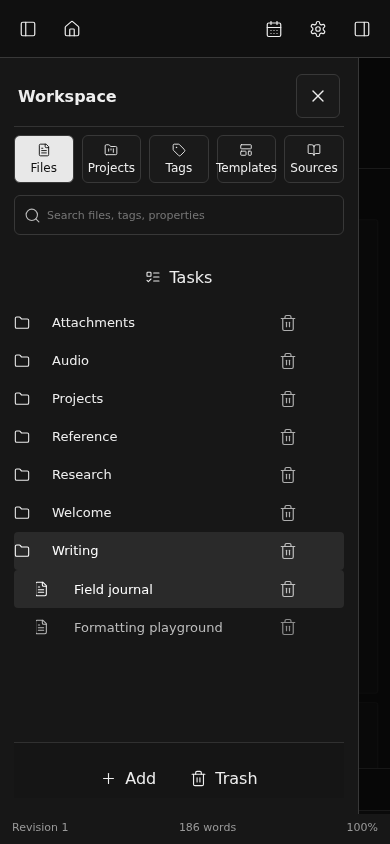
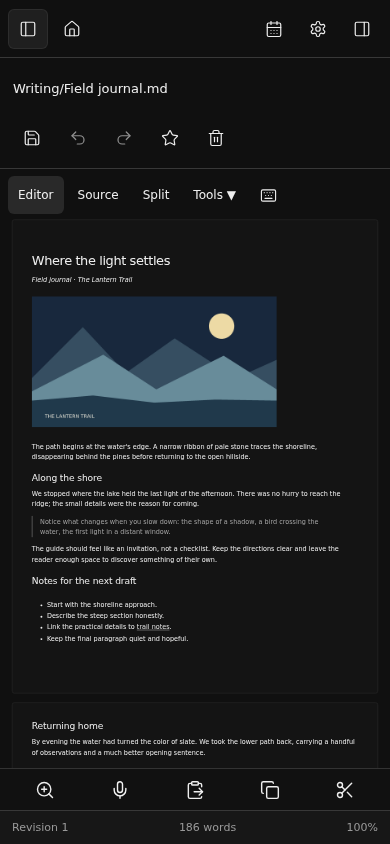
fix: share custom audio player across audio notes and previews

diff --git a/client/VoiceAuthoring.tsx b/client/VoiceAuthoring.tsx
@@ -7,6 +7,7 @@ import {attachmentUrl} from './attachment-urls';
 import {normalizeVoiceLanguage,parseVoiceKeywords,VOICE_KEYWORDS_KEY,VOICE_LANGUAGES,VOICE_LANGUAGE_KEY,voiceLanguageName,type DetectedVoiceLanguage,type VoiceLanguage} from './voice-language';
 import {ChevronDown,Clock3,Database,FileAudio,FolderOpen,Info,Languages,Layers3,Mic,Pause,ShieldCheck,Square,Tag,X} from 'lucide-react';
 import './voice-authoring.css';
+import {StandaloneAudioTrack} from './StandaloneAudioTrack';
 export type VoiceAcceptance={blob:Blob;extension:string;raw:string;markdown:string;path:string;audioPath:string;jobId:string};
 type Recovery={blob:Blob;extension:string;raw:string;markdown:string;path:string;audioPath:string;jobId:string;commands:boolean;mode:TranscriptMode};
 const recoveryDB=()=>openDB('spire-private-voice-drafts',1,{upgrade(db){db.createObjectStore('drafts');}});
@@ -53,7 +54,7 @@ export function VoiceAuthoring({kind,scope,defaultPath,attachments,onAccept,onCl
    <div className="audio-note-sources" role="tablist" aria-label="Audio source"><button role="tab" aria-selected={audioSource==='record'} onClick={()=>setAudioSource('record')}><Mic/>Record</button><button role="tab" aria-selected={audioSource==='import'} disabled={Boolean(audio)} onClick={()=>{setAudioSource('import');importInput.current?.click();}}><FileAudio/>Import File</button><button role="tab" aria-selected={audioSource==='existing'} disabled={Boolean(audio)||!attachments.length} onClick={()=>setAudioSource('existing')}><FolderOpen/>Existing Audio</button></div>
    <input ref={importInput} className="audio-note-hidden-input" aria-label="Audio file" type="file" accept="audio/*,.m4a,.webm,.flac" disabled={busy} onChange={e=>{const f=e.target.files?.[0];if(f)void choose(f,f.name).catch(report);e.target.value='';}}/>
    {audioSource==='existing'&&!audio&&<label className="audio-note-existing">Existing audio attachment<select aria-label="Existing audio attachment" defaultValue="" disabled={busy} onChange={e=>void chooseExisting(e.target.value).catch(report)}><option value="">Choose audio…</option>{attachments.map(p=><option key={p} value={p}>{p}</option>)}</select></label>}
-   {audioURL&&!recording&&<audio controls src={audioURL}/>} {audio&&!recording&&!busy&&<button className="audio-note-retry" onClick={()=>void transcribe()}>{raw?'Retry transcription':'Transcribe on self-hosted server'}</button>}
+   {audioURL&&!recording&&<StandaloneAudioTrack url={audioURL} name="Recording preview"/>} {audio&&!recording&&!busy&&<button className="audio-note-retry" onClick={()=>void transcribe()}>{raw?'Retry transcription':'Transcribe on self-hosted server'}</button>}
    {busy&&!recording&&!accepting&&<button className="audio-note-retry" onClick={()=>{generation.current++;engine.current.cancel();setBusy(false);setStatus('Cancelled. Audio retained for retry.');}}>Cancel transcription</button>}
    <div className="audio-note-settings">
     <label><Languages/><span><strong>Transcription Language</strong><small>Select language for transcription</small></span><select aria-label="Transcription language" value={language} disabled={busy||recording} onChange={e=>{const value=normalizeVoiceLanguage(e.target.value);setLanguage(value);languageRef.current=value;localStorage.setItem(VOICE_LANGUAGE_KEY,value);if(value!=='auto')setDetectedLanguage('');}}>{VOICE_LANGUAGES.map(option=><option key={option.value} value={option.value}>{option.label}</option>)}</select></label>
@@ -78,7 +79,7 @@ export function VoiceAuthoring({kind,scope,defaultPath,attachments,onAccept,onCl
   {!!attachments.length&&<label>Existing audio attachment<select aria-label="Existing audio attachment" defaultValue="" disabled={busy} onChange={e=>{const selected=e.target.value;if(selected)void(async()=>{setBusy(true);try{const response=await fetch(attachmentUrl(selected));if(!response.ok)throw new Error('Unable to read this workspace audio attachment.');await choose(await response.blob(),selected,selected);}finally{setBusy(false);}})().catch(report);}}><option value="">Choose audio…</option>{attachments.map(p=><option key={p} value={p}>{p}</option>)}</select></label>}
   <button disabled={busy} onClick={()=>void start()}>{kind==='dictate'?'Start dictation':'Record new audio'}</button></>}
   {recording&&<div className="file-dialog-actions"><button onClick={()=>void capture.current?.pause(!paused).then(()=>setPaused(!paused)).catch(report)}>{paused?'Resume':'Pause'}</button><button onClick={stop}>Stop recording</button></div>}
-  {audioURL&&!recording&&<audio controls src={audioURL}/>}
+  {audioURL&&!recording&&<StandaloneAudioTrack url={audioURL} name="Recording preview"/>}
   {audio&&!recording&&!busy&&<button onClick={()=>void transcribe()}>{raw?'Retry transcription':'Transcribe on this device'}</button>}
   {busy&&!recording&&!accepting&&<button onClick={()=>{generation.current++;engine.current.cancel();if(capture.current)stop();setBusy(false);setStatus('Cancelled. Audio retained for retry.');}}>Cancel transcription</button>}
   {kind==='dictate'?<><label className="voice-check"><input type="checkbox" aria-label="Spoken formatting commands" checked={commands} disabled={busy||recording} onChange={e=>{setCommands(e.target.checked);values.current.commands=e.target.checked;setMarkdown(dictatedMarkdown(raw,e.target.checked).markdown);}}/>Spoken formatting commands</label><p>Off by default. When enabled, prefix each command with “Spire”; for example “Spire heading one” or “Spire new paragraph”. Commands affect only this new dictation, never your existing writing.</p><details><summary>Supported commands</summary><p>{voiceCommands.map(c=>'Spire '+c).join(' · ')}</p></details>{commands&&raw&&<p>Recognized commands: {dictatedMarkdown(raw,true).commands.join(', ')||'none'}</p>}</>:<><label>Transcript mode<select aria-label="Transcript mode" value={mode} disabled={busy||recording} onChange={e=>{const value=e.target.value as TranscriptMode;setMode(value);values.current.mode=value;setMarkdown(transcriptFile(path.split('/').pop()?.replace(/\.md$/i,'')??'Transcript',raw,value));}}><option value="verbatim">Verbatim</option><option value="clean">Clean — light filler cleanup</option><option value="structured">Structured — paragraph organization</option></select></label><p>Structured mode organizes a reading copy; it does not invent a summary, speakers, or tasks.</p><label>Transcript file path<input aria-label="Transcript file path" value={path} disabled={busy||recording} onChange={e=>setPath(e.target.value)}/></label></>}

diff --git a/tests/browser/audio-player-parity.spec.ts b/tests/browser/audio-player-parity.spec.ts
@@ -1,0 +1,25 @@
+import {test,expect} from './fixtures';
+import {readFileSync} from 'node:fs';
+import {randomUUID} from 'node:crypto';
+import {audioNoteContent} from '../../shared/audio-notes';
+for(const width of [390,1500])test(`Audio Notes share the custom player and retain transcript flows at ${width}`,async({page})=>{
+ await page.setViewportSize({width,height:950});await page.goto('/');
+ await page.getByLabel('Username',{exact:true}).fill('audio-parity');await page.getByLabel('Password',{exact:true}).fill('audio-parity-test-password');await page.getByRole('button',{name:'Create Reliquary',exact:true}).click();await expect(page.getByRole('button',{name:'Settings',exact:true})).toBeVisible();
+ const me=await(await page.request.get('/api/me')).json(),headers={Origin:'http://127.0.0.1:4179','X-CSRF-Token':me.csrf};
+ for(const path of ['Attachments','Audio Notes','Writing'])expect((await page.request.post('/api/folders',{headers,data:{path}})).ok()).toBeTruthy();
+ const asset='Attachments/lantern-chime.mp3';expect((await page.request.post('/api/attachments?path='+encodeURIComponent(asset),{headers:{...headers,'Content-Type':'application/octet-stream'},data:readFileSync('examples/showcase/vault/'+asset)})).ok()).toBeTruthy();
+ const id=randomUUID(),path='Audio Notes/Player consistency.md';expect((await page.request.post('/api/mutate',{headers,data:{op:randomUUID(),id,base:0,path,content:audioNoteContent(path,asset,'Original words'),deleted:false}})).ok()).toBeTruthy();
+ const open=async()=>{await page.reload();await expect(page.getByRole('button',{name:'Settings',exact:true})).toBeVisible();const recent=page.getByRole('button',{name:'Player consistency Audio Notes',exact:true});if(await recent.isVisible()){await recent.click();return;}if(width>=980)await expect(page.locator('.sidebar')).toBeVisible();else if(!await page.locator('.sidebar').isVisible())await page.getByRole('button',{name:'Toggle folders',exact:true}).click();const folder=page.getByRole('navigation',{name:'Files',exact:true}).getByText('Audio Notes',{exact:true});if(!await page.getByRole('button',{name:'Player consistency',exact:true}).isVisible())await folder.click();await page.getByRole('button',{name:'Player consistency',exact:true}).click();};
+ await open();const region=page.getByRole('region',{name:'Audio Note'});await expect(region).toBeVisible();
+ const player=region.getByRole('group',{name:'Audio player for lantern-chime.mp3'});await expect(player).toBeVisible();await expect(region.locator('audio[controls]')).toHaveCount(0);
+ await expect.poll(()=>player.locator('audio').evaluate((a:HTMLAudioElement)=>a.duration)).toBeGreaterThan(2);
+ await player.getByRole('button',{name:'Play lantern-chime.mp3',exact:true}).click();await expect(player.getByRole('button',{name:'Pause lantern-chime.mp3',exact:true})).toBeVisible();await player.getByRole('button',{name:'Pause lantern-chime.mp3',exact:true}).click();
+ await player.getByRole('slider',{name:'Seek lantern-chime.mp3'}).fill('1');await expect.poll(()=>player.locator('audio').evaluate((a:HTMLAudioElement)=>a.currentTime)).toBeGreaterThanOrEqual(0.9);
+ await player.getByRole('button',{name:'Mute lantern-chime.mp3',exact:true}).click();await expect(player.getByRole('button',{name:'Unmute lantern-chime.mp3',exact:true})).toBeVisible();
+ const bounds=await player.boundingBox();expect(bounds!.x).toBeGreaterThanOrEqual(0);expect(bounds!.x+bounds!.width).toBeLessThanOrEqual(width+1);
+ await player.getByRole('button',{name:'More options for lantern-chime.mp3'}).click();await page.getByRole('menuitem',{name:'Show speaker button'}).click();
+ await expect.poll(async()=>{const r=await page.request.get('/api/workspace/files/'+id+'/content');return (await r.json()).content;}).toContain('data-spire-display="simple"');
+ await open();await expect(region.locator('.media-audio-row-speaker')).toBeVisible();
+ await region.getByRole('button',{name:'Edit transcript'}).click();await page.getByLabel('Edit transcript').fill('Edited words');await region.getByRole('button',{name:'Save transcript'}).click();await expect(region.getByText('Edited words',{exact:true})).toBeVisible();
+ page.once('dialog',dialog=>dialog.accept('Writing/Player transcript.md'));await region.getByRole('button',{name:'Convert to normal file'}).click();await expect(page.getByRole('textbox',{name:'Document editor',exact:true})).toContainText('Edited words');await expect(page.locator('.editor-audio-player .media-audio-row')).toBeVisible();
+});

diff --git a/client/AudioNoteView.tsx b/client/AudioNoteView.tsx
@@ -1,9 +1,13 @@
 import React,{useState} from 'react';
 import {audioNoteData,audioNoteTranscript,replaceAudioNoteTranscript} from '../shared/audio-notes';
+import {StandaloneAudioTrack} from './StandaloneAudioTrack';
+import {setAudioDisplay} from './editor-audio';
 import {attachmentUrl} from './attachment-urls';
 type File={id:string;path:string;content:string;deleted?:boolean};
 export function AudioNoteView({note,linked,onSave,onConvert,onOpen}:{note:File;linked:File[];onSave:(content:string)=>Promise<void>;onConvert:()=>Promise<void>;onOpen:(file:File)=>void}){
  const [editing,E]=useState(false),[text,T]=useState(''),[busy,B]=useState(false),[error,F]=useState('');const data=audioNoteData(note.content)!;
+ const name=data.audioPath.split('/').pop()||'Audio';
+ const display=/<audio\b[^>]*\bdata-spire-display=["']simple["']/i.test(note.content)?'simple':'default';
  const run=async(fn:()=>Promise<void>)=>{B(true);F('');try{await fn();}catch(e){F(e instanceof Error?e.message:String(e));}finally{B(false);}};
- return <section className="audio-note-view" style={{padding:20,overflow:'auto',minHeight:0}} aria-label="Audio Note"><h1>{note.path.split('/').pop()?.replace(/\.md$/i,'')}</h1><audio controls preload="metadata" src={attachmentUrl(data.audioPath)} style={{width:'100%'}}/><h2>Transcript</h2>{editing?<><label htmlFor="audio-note-transcript">Edit transcript</label><textarea id="audio-note-transcript" value={text} onChange={e=>T(e.target.value)} rows={14} disabled={busy} style={{width:'100%',boxSizing:'border-box',font:'inherit',padding:12}}/><button disabled={busy} onClick={()=>void run(async()=>{await onSave(replaceAudioNoteTranscript(note.content,text));E(false);})}>Save transcript</button><button disabled={busy} onClick={()=>E(false)}>Cancel</button></>:<><p style={{whiteSpace:'pre-wrap'}}>{audioNoteTranscript(note.content)}</p><button disabled={busy||note.deleted} onClick={()=>{T(audioNoteTranscript(note.content));E(true);}}>Edit transcript</button></>}<p><button disabled={busy||editing||note.deleted} onClick={()=>void run(onConvert)}>Convert to normal file</button></p>{linked.length>0&&<nav aria-label="Linked normal files"><h3>Linked files</h3>{linked.map(file=><button key={file.id} disabled={busy||editing} onClick={()=>onOpen(file)}>{file.path}</button>)}</nav>}{error&&<p role="alert">{error}</p>}<p className="muted">The original audio is retained. Conversion creates a separate linked document.</p></section>;
+ return <section className="audio-note-view" style={{padding:20,overflow:'auto',minHeight:0}} aria-label="Audio Note"><h1>{note.path.split('/').pop()?.replace(/\.md$/i,'')}</h1><StandaloneAudioTrack key={note.id} name={name} url={attachmentUrl(data.audioPath)} initialDisplay={display} onDisplayChange={next=>{if(!busy&&!editing&&!note.deleted)void run(()=>onSave(setAudioDisplay(note.content,0,next)));}}/><h2>Transcript</h2>{editing?<><label htmlFor="audio-note-transcript">Edit transcript</label><textarea id="audio-note-transcript" value={text} onChange={e=>T(e.target.value)} rows={14} disabled={busy} style={{width:'100%',boxSizing:'border-box',font:'inherit',padding:12}}/><button disabled={busy} onClick={()=>void run(async()=>{await onSave(replaceAudioNoteTranscript(note.content,text));E(false);})}>Save transcript</button><button disabled={busy} onClick={()=>E(false)}>Cancel</button></>:<><p style={{whiteSpace:'pre-wrap'}}>{audioNoteTranscript(note.content)}</p><button disabled={busy||note.deleted} onClick={()=>{T(audioNoteTranscript(note.content));E(true);}}>Edit transcript</button></>}<p><button disabled={busy||editing||note.deleted} onClick={()=>void run(onConvert)}>Convert to normal file</button></p>{linked.length>0&&<nav aria-label="Linked normal files"><h3>Linked files</h3>{linked.map(file=><button key={file.id} disabled={busy||editing} onClick={()=>onOpen(file)}>{file.path}</button>)}</nav>}{error&&<p role="alert">{error}</p>}<p className="muted">The original audio is retained. Conversion creates a separate linked document.</p></section>;
 }

diff --git a/tests/browser/public-showcase.spec.ts b/tests/browser/public-showcase.spec.ts
@@ -21,6 +21,6 @@ test('capture public showcase on desktop and mobile',async({page})=>{
  await page.getByRole('button',{name:'Field journal',exact:true}).click();
  await expect(page.getByRole('textbox',{name:'Document editor',exact:true})).toContainText('Where the light settles');
  await expect(page.locator('.document-editor img').first()).toBeVisible();await expect.poll(()=>page.locator('.document-editor img').first().evaluate((el:HTMLImageElement)=>el.complete&&el.naturalWidth>0)).toBeTruthy();await page.evaluate(()=>document.fonts.ready);await page.screenshot({path:'documents/screenshots/desktop-editor.png'});
- await page.setViewportSize({width:390,height:844});await page.screenshot({path:'documents/screenshots/mobile-editor.png'});
+ await page.setViewportSize({width:390,height:844});if(await page.locator('.sidebar').isVisible())await page.getByRole('button',{name:'Toggle folders',exact:true}).click();await expect(page.locator('.sidebar')).not.toBeVisible();await expect(page.getByRole('textbox',{name:'Document editor',exact:true})).toBeVisible();await page.screenshot({path:'documents/screenshots/mobile-editor.png'});
  await page.getByRole('button',{name:'Home',exact:true}).click();await page.screenshot({path:'documents/screenshots/mobile-home.png'});
 });

diff --git a/client/StandaloneAudioTrack.tsx b/client/StandaloneAudioTrack.tsx
@@ -1,0 +1,10 @@
+import React,{useCallback,useRef} from 'react';
+import {AudioTrack} from './AudioTrack';
+
+/** Single-source playback uses the same controls as editor and gallery audio. */
+export function StandaloneAudioTrack({url,name,initialDisplay='default',onDisplayChange}:{url:string;name:string;initialDisplay?:'default'|'simple';onDisplayChange?:(display:'default'|'simple')=>void}){
+ const audio=useRef<HTMLAudioElement|null>(null);
+ const ready=useCallback((node:HTMLAudioElement|null)=>{audio.current=node;},[]);
+ const replay=()=>{if(audio.current){audio.current.currentTime=0;void audio.current.play().catch(()=>{});}};
+ return <div className="media-audio-list standalone-audio-player"><AudioTrack key={url} item={{key:url,kind:'audio',name,url,missing:false}} onReady={ready} previous={replay} next={replay} initialDisplay={initialDisplay} onDisplayChange={onDisplayChange}/></div>;
+}
